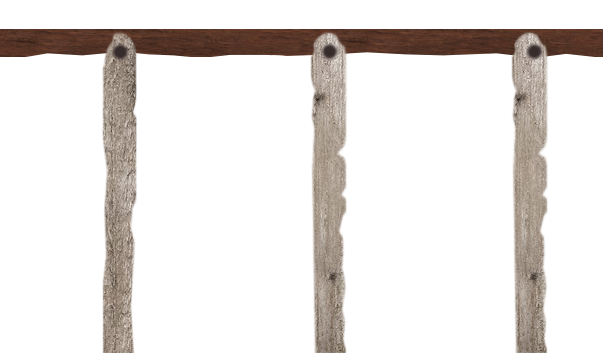
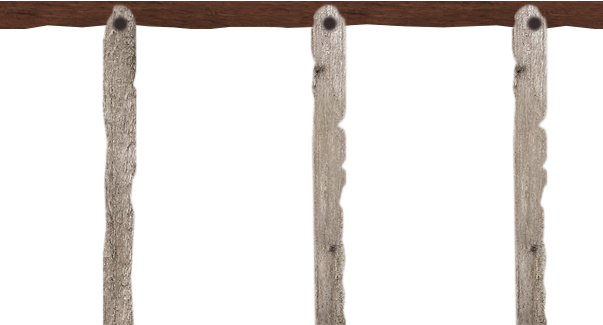
Smaller Bench. Added Lighting. Reverted to Home.

diff --git a/index.html b/index.html
@@ -11,7 +11,7 @@
 $(document).ready(function(){
   $("#home").hide();
   $("#work").hide();  
-  $("#work").fadeTo("slow", 1);
+  $("#home").fadeTo("slow", 1);
   
   // Toggle Home/Work
   $("#sign_to_work").click(toggle_screens);
@@ -124,6 +124,9 @@ var toggle_screens = function() {
       <div id="work" class="main_inner">
         <div id="work_central" class="central">
           <div id="building">
+            <div id="lighting">
+              <img style="width:100%; height:100%; opacity:0.7;" src="images/lighting.png"></img>
+            </div>
             <div id="inside">
               <div id="above_table">
                 <div id="todo">

diff --git a/styles.css b/styles.css
@@ -460,15 +460,14 @@ body {
   padding-bottom: 10px;
 }
 
-
 #table {
 	position: absolute;
 	bottom: 0px;
 	width: 100%;
-	height: 350px;
+	height: 230px;
   background-image: url("images/bench.png");
   background-position: bottom left;
-  background-size: 600px 350px;
+  background-size: 600px 230px;
   z-index: 2;
   pointer-events: none;
 }
@@ -505,4 +504,15 @@ body {
   height: 70%;
   width: 70%;
   border-radius: 5px;
+}
+
+#lighting {
+  position: absolute;
+  width: 900px;
+  height: 700px;
+  left: 0px;
+  top: 0px;
+  z-index: 10;
+  
+  pointer-events: none;
 }
